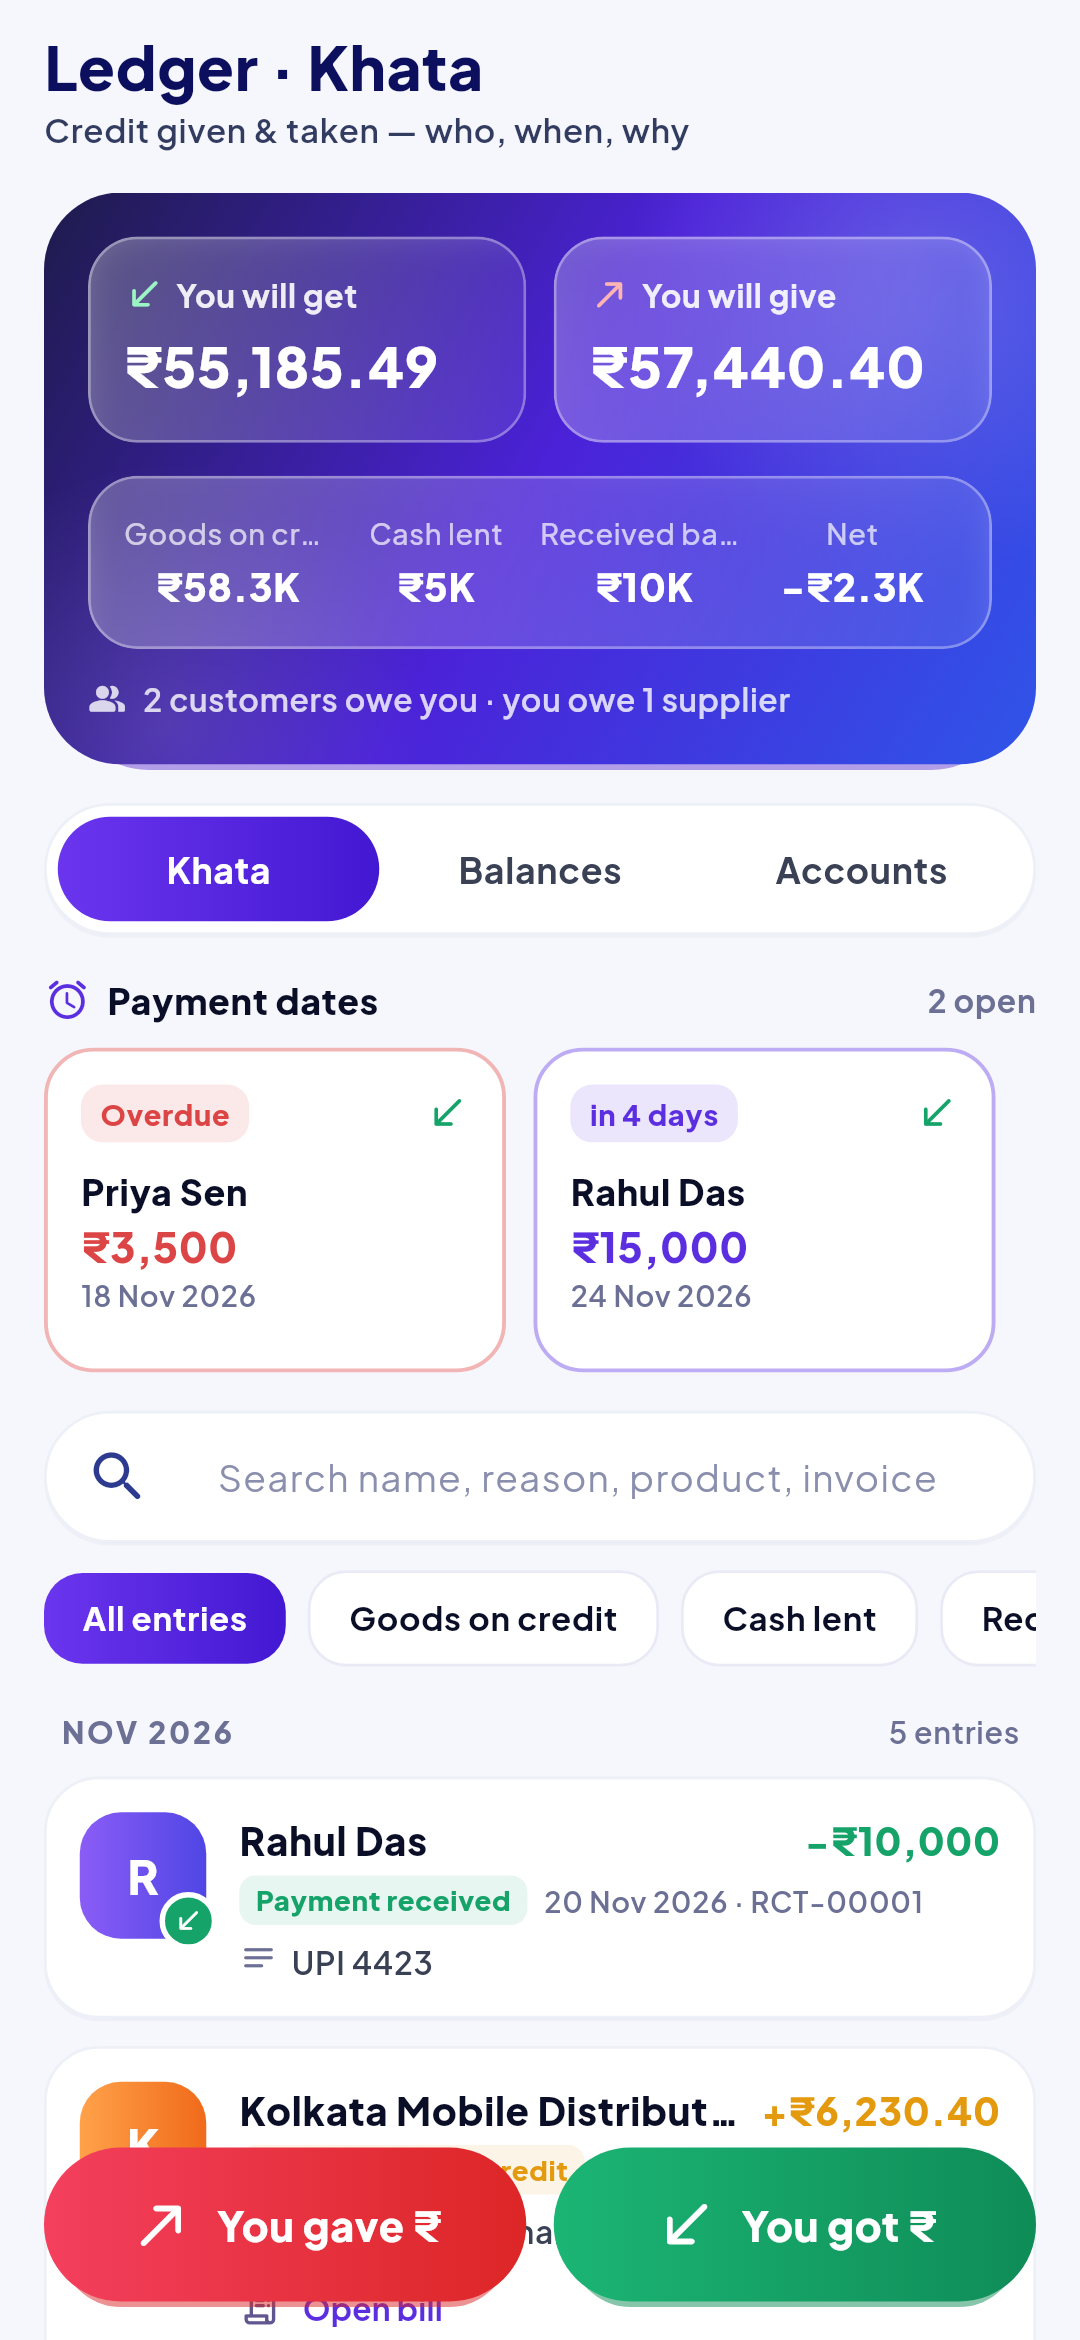
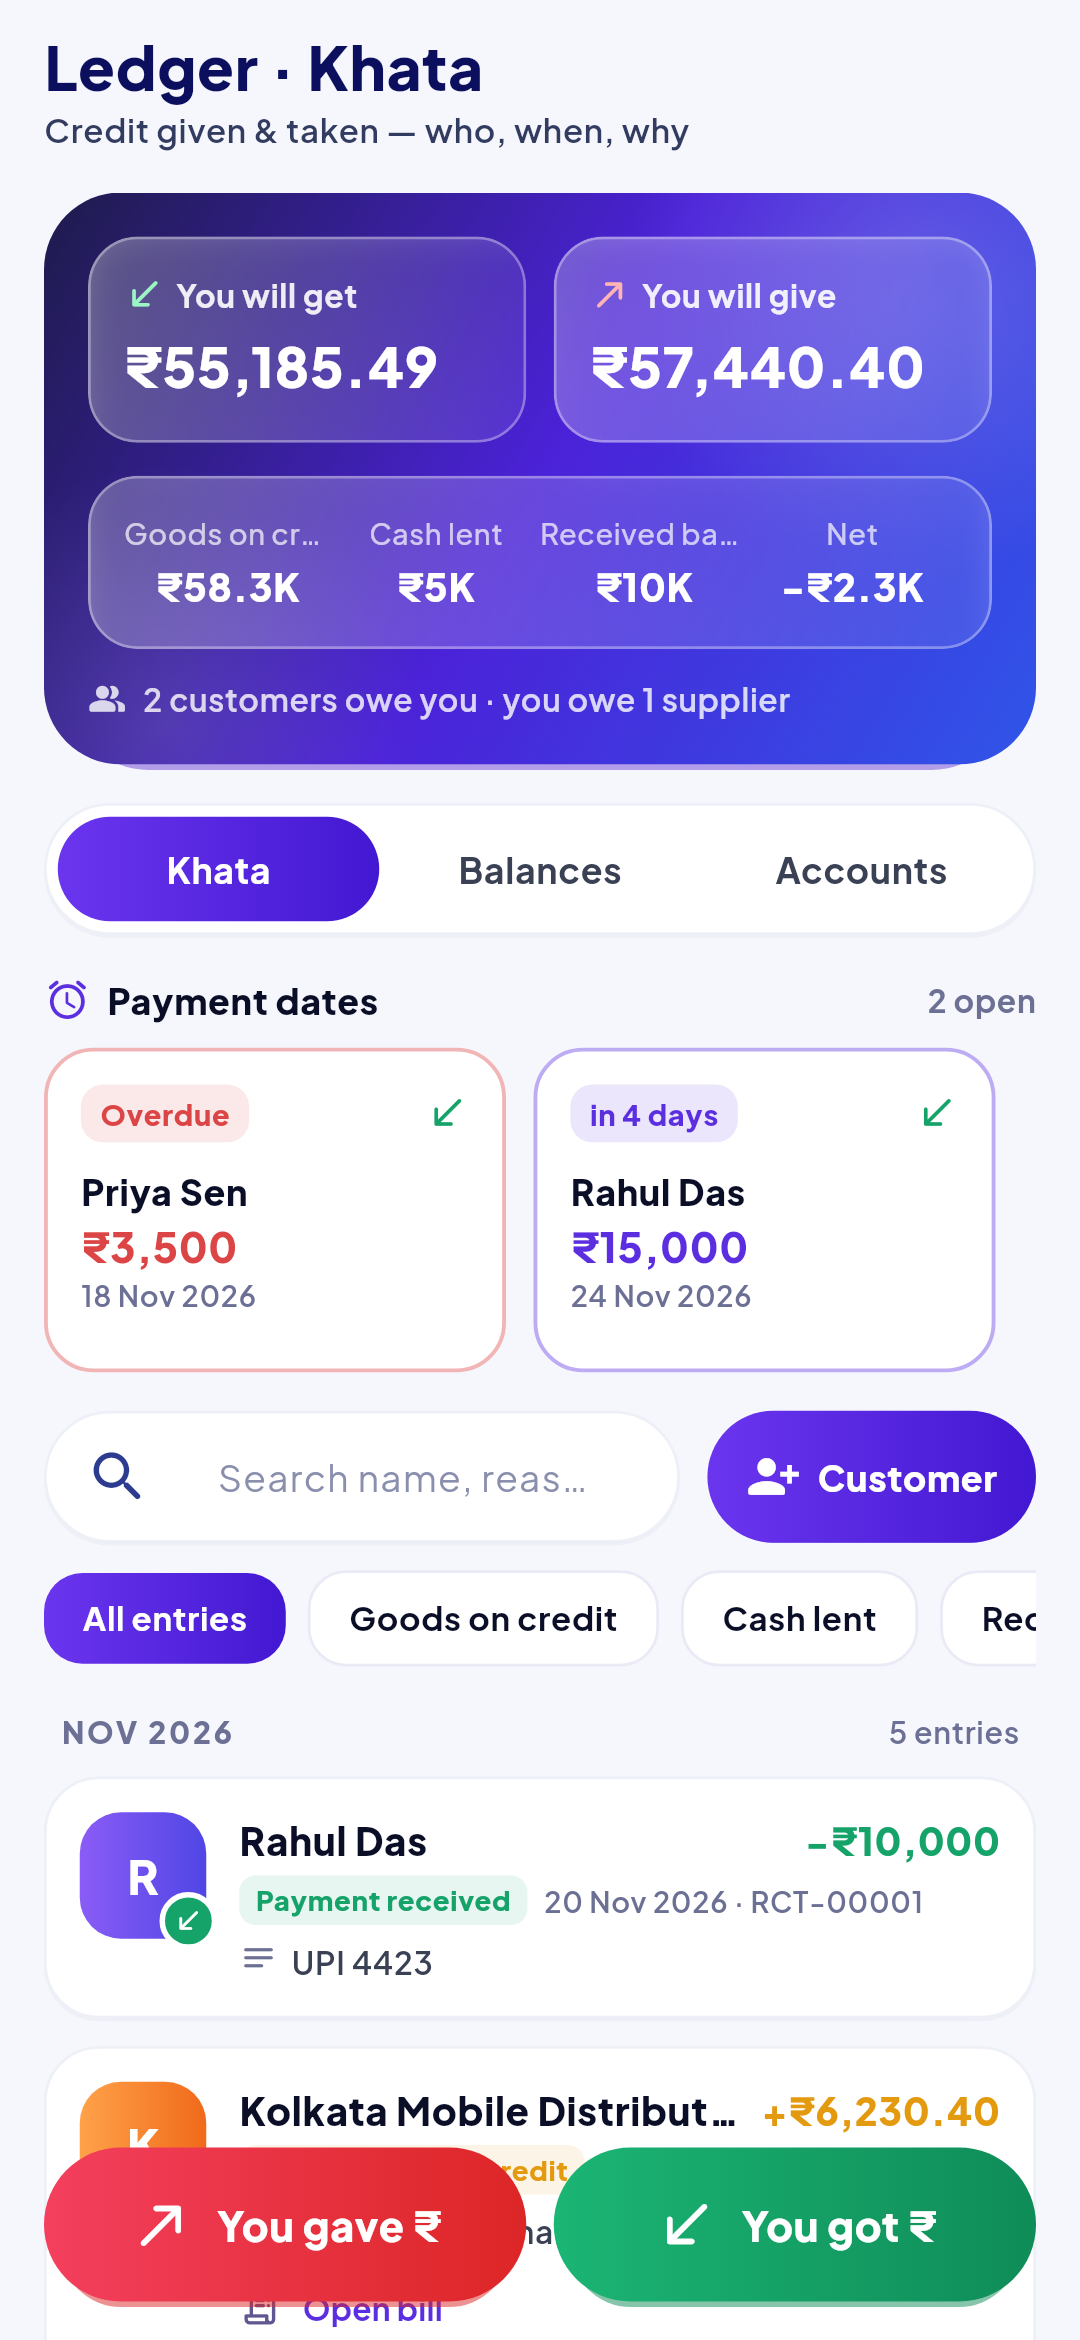
You gave / You got: Add customer or supplier right next to the search
Claude-Session: https://claude.ai/code/session_01TPz7VGxGWhSYt9uz1YHRun

Changed region(s): [[0.6417, 0.5927, 0.9778, 0.6863], [0.5806, 0.6239, 0.6111, 0.6551], [0.5194, 0.6239, 0.55, 0.6551]]

diff --git a/lib/screens/lend_sheet.dart b/lib/screens/lend_sheet.dart
@@ -117,6 +117,7 @@ class LendSheet extends StatefulWidget {
 class _LendSheetState extends State<LendSheet> {
   final amount = TextEditingController();
   final reason = TextEditingController();
+  final search = TextEditingController();
   late String partyType = widget.partyType ?? 'customer';
   int? partyId;
   List<Rec> customers = [], suppliers = [], accounts = [];
@@ -151,7 +152,54 @@ class _LendSheetState extends State<LendSheet> {
   void dispose() {
     amount.dispose();
     reason.dispose();
+    search.dispose();
     super.dispose();
+  }
+
+  /// Quick add: name + mobile; an existing one with the same name and number
+  /// is picked instead of making a copy.
+  Future<void> _addParty() async {
+    final isC = partyType == 'customer';
+    final name = TextEditingController(text: RegExp(r'\d').hasMatch(q) ? '' : q);
+    final phone = TextEditingController(text: RegExp(r'^[\d\s+]+$').hasMatch(q) ? q : '');
+    final ok = await showDialog<bool>(
+      context: context,
+      builder: (c) => AlertDialog(
+        title: Text(isC ? 'New customer' : 'New supplier'),
+        content: Column(mainAxisSize: MainAxisSize.min, children: [
+          TextField(controller: name, autofocus: true, textCapitalization: TextCapitalization.words, decoration: const InputDecoration(labelText: 'Name')),
+          const SizedBox(height: 8),
+          TextField(controller: phone, keyboardType: TextInputType.phone, decoration: const InputDecoration(labelText: 'Mobile (optional)')),
+        ]),
+        actions: [
+          TextButton(onPressed: () => Navigator.pop(c, false), child: const Text('Cancel')),
+          FilledButton(onPressed: () => Navigator.pop(c, true), child: const Text('Save')),
+        ],
+      ),
+    );
+    final n = name.text.trim(), ph = phone.text.replaceAll(RegExp(r'[^\d+]'), '');
+    name.dispose();
+    phone.dispose();
+    if (ok != true || !mounted) return;
+    if (n.isEmpty) {
+      toast(context, 'Enter the name', error: true);
+      return;
+    }
+    try {
+      final dup = await Books.findDuplicateParty(partyType, n, ph);
+      final id = dup != null ? asInt(dup['id']) : await Books.saveParty(partyType, {'name': n, 'phone': ph.isEmpty ? null : ph});
+      await _load();
+      if (!mounted) return;
+      final shown = dup != null ? '${dup['name']}' : n;
+      setState(() {
+        partyId = id;
+        q = shown; // the new one shows, selected
+        search.text = shown;
+      });
+      toast(context, dup != null ? '${dup['name']} is already added — selected' : '$n added');
+    } catch (e) {
+      if (mounted) toast(context, '$e', error: true);
+    }
   }
 
   Rec? get _party {
@@ -239,8 +287,7 @@ class _LendSheetState extends State<LendSheet> {
               Expanded(
                 child: Column(crossAxisAlignment: CrossAxisAlignment.start, children: [
                   Text(gave ? 'You gave' : 'You got', style: _j(19, FontWeight.w800, _navy)),
-                  Text(gave ? 'Cash given on credit — they will owe you' : 'Cash received — their due goes down',
-                      style: _j(11.5, FontWeight.w500, _muted)),
+                  Text(gave ? 'Cash given on credit — they will owe you' : 'Cash received — their due goes down', style: _j(11.5, FontWeight.w500, _muted)),
                 ]),
               ),
             ]),
@@ -274,30 +321,54 @@ class _LendSheetState extends State<LendSheet> {
                 ],
               ]),
               const SizedBox(height: 10),
-              Container(
-                height: 44,
-                padding: const EdgeInsets.symmetric(horizontal: 12),
-                decoration: _card(r: 22),
-                child: Row(children: [
-                  const Icon(Icons.search_rounded, color: _muted, size: 20),
-                  const SizedBox(width: 8),
-                  Expanded(
-                    child: TextField(
-                      onChanged: (v) => setState(() => q = v.trim()),
-                      style: _j(13.5, FontWeight.w600, _ink),
-                      decoration: InputDecoration(
-                        isCollapsed: true,
-                        filled: false,
-                        border: InputBorder.none,
-                        enabledBorder: InputBorder.none,
-                        focusedBorder: InputBorder.none,
-                        hintText: 'Search name or phone',
-                        hintStyle: _j(13, FontWeight.w400, const Color(0xFF8A8FAD)),
+              Row(children: [
+                Expanded(
+                  child: Container(
+                    height: 44,
+                    padding: const EdgeInsets.symmetric(horizontal: 12),
+                    decoration: _card(r: 22),
+                    child: Row(children: [
+                      const Icon(Icons.search_rounded, color: _muted, size: 20),
+                      const SizedBox(width: 8),
+                      Expanded(
+                        child: TextField(
+                          controller: search,
+                          onChanged: (v) => setState(() => q = v.trim()),
+                          style: _j(13.5, FontWeight.w600, _ink),
+                          decoration: InputDecoration(
+                            isCollapsed: true,
+                            filled: false,
+                            border: InputBorder.none,
+                            enabledBorder: InputBorder.none,
+                            focusedBorder: InputBorder.none,
+                            hintText: 'Search name or phone',
+                            hintStyle: _j(13, FontWeight.w400, const Color(0xFF8A8FAD)),
+                          ),
+                        ),
                       ),
-                    ),
+                    ]),
                   ),
-                ]),
-              ),
+                ),
+                const SizedBox(width: 8),
+                // add a new customer / supplier without leaving this sheet
+                GestureDetector(
+                  onTap: _addParty,
+                  child: Container(
+                    height: 44,
+                    padding: const EdgeInsets.symmetric(horizontal: 12),
+                    decoration: BoxDecoration(
+                      borderRadius: BorderRadius.circular(22),
+                      gradient: const LinearGradient(colors: [Color(0xFF6B35EE), Color(0xFF4318D2)]),
+                      boxShadow: const [BoxShadow(color: Color(0x554318D2), blurRadius: 14, offset: Offset(0, 6), spreadRadius: -6)],
+                    ),
+                    child: Row(mainAxisSize: MainAxisSize.min, children: [
+                      const Icon(Icons.person_add_alt_1_rounded, color: Colors.white, size: 18),
+                      const SizedBox(width: 5),
+                      Text('Add', style: _j(12.5, FontWeight.w800, Colors.white)),
+                    ]),
+                  ),
+                ),
+              ]),
               const SizedBox(height: 10),
               SizedBox(
                 height: 92,
@@ -408,7 +479,8 @@ class _LendSheetState extends State<LendSheet> {
             ]),
             const SizedBox(height: 14),
             Row(children: [
-              Expanded(child: _dateChip(Icons.event_rounded, date == ymd(DateTime.now()) ? 'Today' : prettyDate(date), () async {
+              Expanded(
+                  child: _dateChip(Icons.event_rounded, date == ymd(DateTime.now()) ? 'Today' : prettyDate(date), () async {
                 final d = await _pickDate(context, date);
                 if (d != null) setState(() => date = d);
               })),

diff --git a/test_screens/screens_test.dart b/test_screens/screens_test.dart
@@ -23,6 +23,7 @@ import 'package:hisab/screens/imei.dart';
 import 'package:hisab/screens/security.dart';
 import 'package:hisab/screens/sales.dart';
 import 'package:hisab/screens/ledgers.dart';
+import 'package:hisab/screens/lend_sheet.dart';
 import 'package:hisab/screens/parties.dart';
 import 'package:hisab/screens/product_form.dart';
 import 'package:hisab/screens/purchase_pos.dart';
@@ -123,7 +124,7 @@ void main() {
     });
   }
 
-  for (final (name, index) in [('home', 0), ('dashboard', 1), ('products', 2), ('menu', 3), ('add_product', -1), ('new_sale', -2), ('new_purchase', -3), ('ledgers', -4), ('customer_profile', -5), ('expenses', -6), ('customers', -7), ('sales', -8), ('bank', -9), ('add_card', -10), ('purchases', -11), ('supplier_profile', -12), ('sale_returns', -13), ('sale_return_form', -14), ('invoice_view', -15), ('sale_complete', -16), ('emi', -17), ('emi_plan', -18), ('imei', -19), ('backup', -20), ('security', -21), ('lock', -22), ('login', -23), ('account', -24), ('smart_ai', -25), ('gst_report', -26), ('excel_export', -27), ('daily_report', -28), ('analytics', -29), ('loans', -30), ('loan_view', -31), ('loan_form', -32), ('plans', -33), ('stores', -34), ('admin', -35), ('sheets_home', -36), ('sheet_editor', -37)]) {
+  for (final (name, index) in [('home', 0), ('dashboard', 1), ('products', 2), ('menu', 3), ('add_product', -1), ('new_sale', -2), ('new_purchase', -3), ('ledgers', -4), ('customer_profile', -5), ('expenses', -6), ('customers', -7), ('sales', -8), ('bank', -9), ('add_card', -10), ('purchases', -11), ('supplier_profile', -12), ('sale_returns', -13), ('sale_return_form', -14), ('invoice_view', -15), ('sale_complete', -16), ('emi', -17), ('emi_plan', -18), ('imei', -19), ('backup', -20), ('security', -21), ('lock', -22), ('login', -23), ('account', -24), ('smart_ai', -25), ('gst_report', -26), ('excel_export', -27), ('daily_report', -28), ('analytics', -29), ('loans', -30), ('loan_view', -31), ('loan_form', -32), ('plans', -33), ('stores', -34), ('admin', -35), ('sheets_home', -36), ('sheet_editor', -37), ('khata_you_gave', -38)]) {
     testWidgets(name, (t) async {
       t.view.physicalSize = const Size(1080, 2340);
       t.view.devicePixelRatio = 2.75;
@@ -208,6 +209,11 @@ void main() {
                                                                                                                                                           ? const SheetsHome()
                                                                                                                                                           : index == -37
                                                                                                                                                               ? SheetEditor(book: demoBook)
+                                                                                                                                                              : index == -38
+                                                                                                                                                                  ? const Scaffold(
+                                                                                                                                                                      backgroundColor: Color(0xFF8A8FAD),
+                                                                                                                                                                      body: Align(alignment: Alignment.bottomCenter, child: LendSheet(kind: 'gave')),
+                                                                                                                                                                    )
                                                                   : const Scaffold(
                                                       backgroundColor: Color(0xFF8A8FAD),
                                                       body: Align(alignment: Alignment.bottomCenter, child: AccountSheet()),
